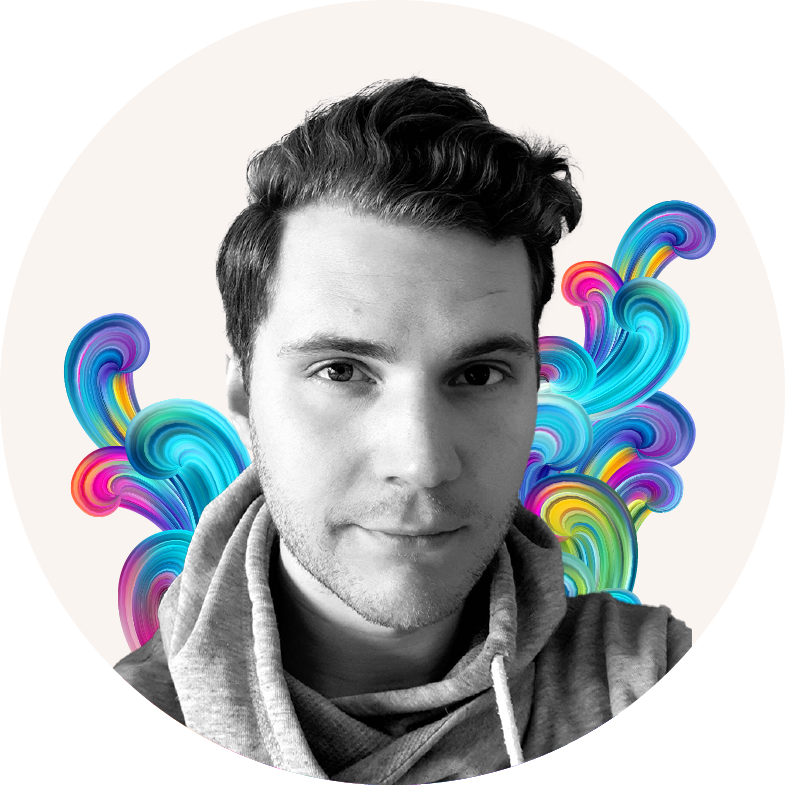
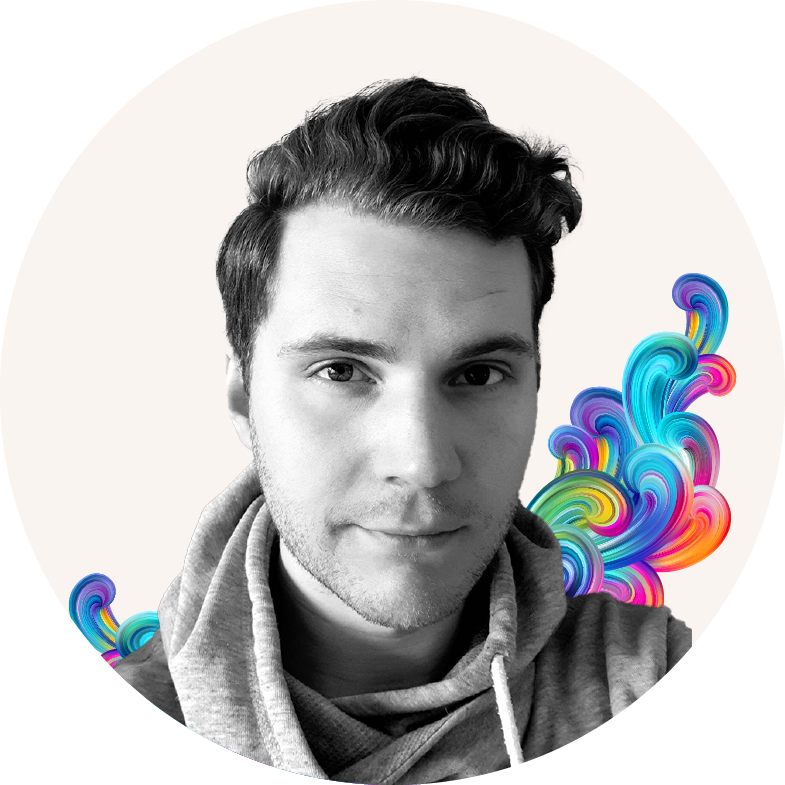
Add media queries

Changed region(s): [[0.642, 0.2446, 0.9478, 0.7949], [0.0611, 0.3975, 0.3363, 0.8561]]

diff --git a/src/views/WelcomePageViews/AboutPage.vue b/src/views/WelcomePageViews/AboutPage.vue
@@ -32,7 +32,7 @@
           <img class="image" :src="laptopRight"/>
         </div>      
         <div :class="!showLaptop ? 'art-text-container-hidden' : 'art-text-container-shown'">
-          <h1>Hobbyist artist</h1>
+          <h1>Hobby artist</h1>
           <p>As a teenager i had a brief period where i drawed comics. This led me on to try other medias and artforms, one of them being watercolor. 
             The years went and i rarely painted, until the day my wife handed me some paper and encouraged me to bring my old hobby back to life.</p>
         </div>
@@ -49,7 +49,7 @@
                   <ul>
                     <li>Coffee is my breakfast</li>
                     <li>Loves gaming</li>
-                    <li>I like keeping houseplants</li>
+                    <li>Like keeping houseplants</li>
                     <li>Spends to much time infront of screens</li>
                   </ul>
                 <p id="about-btn-text">More about me...</p>
@@ -101,6 +101,8 @@ export default {
       showMobile: false,
       aboutMeToggled: false,
       windowTop: window.top.scrollY,
+      windowHeight: window.innerHeight,
+      windowWidth: window.innerWidth,
     }
   },
 
@@ -149,26 +151,23 @@ export default {
     },
 
     onScroll() {
-      this.windowTop = window.top.scrollY
+      this.windowTop = window.top.scrollY;
+      this.windowHeight = window.innerHeight;
+      this.windowWidth = window.innerWidth;
     }
   },
 
   watch: {
     windowTop() {
-      if (this.windowTop > 500) {
+      if (this.windowTop > 500 || this.windowTop + this.windowHeight > 500 || this.windowWidth < 1100) {
         this.showScreen = true;
       }
-      else {this.showScreen = false}
-
-      if (this.windowTop > 1300) {
+      if (this.windowTop > 1300 || this.windowTop + this.windowHeight > 2700 || this.windowWidth < 1100) {
         this.showLaptop = true;
       }
-      else {this.showLaptop = false}
-
-      if (this.windowTop > 2200) {
+      if (this.windowTop > 2200 || this.windowTop + this.windowHeight > 3600 || this.windowWidth < 1100) {
         this.showMobile = true;
       }
-      else {this.showMobile = false}
     }
   },
 }
@@ -558,9 +557,6 @@ p {
   font-size: 40px;
 }
 
-.mobile-text-container-facts p {
-}
-
 .mobile-text-container-facts ul {
   margin-top: 25px;
   margin-bottom: 45px;
@@ -654,8 +650,86 @@ p {
   font-family: monospace;
 }
 
-@media only screen and (max-width: 1100px) { 
+/* Small screen CSS */
+@media only screen and (max-width: 1600px) {
+
+  h1 {
+    font-size: 33px;
+  }
+
+  p {
+    font-size: 14px;
+  }
+
+  .image {
+    height: 50%;
+    width: 50%;
+  }
+
+  #image-1 {
+    left: 45px;
+    height: 48%;
+  }
+
+  #image-2 {
+    left: 32%;
+    height: 69%;
+  }
+
+  #image-3 {
+    height: 40%;
+  }
   
+  .about-cards {
+    width: 100%;
+  }
+  
+  .about-card {
+    padding: 150px 0 200px 0;
+  }
+  
+  #screen-shown .mac-window-card[data-v-828a76b8] {
+    margin: -250px 0 0 600px;
+    height: 400px;
+  }
+
+  #screen-shown .mac-window-card .code-icon[data-v-828a76b8] {
+    margin: -50px 0 0 84%;
+  }
+
+  #screen-shown .mac-window-card h1 {
+    font-size: 33px;
+  }
+  
+  #screen-shown .mac-window-card p {
+    font-size: 14px;
+  }
+
+  #laptop-shown {
+    margin-right: -14%;
+  }
+
+  #laptop-shown .laptop-art-container {
+    max-width: 820px;
+    margin: -330px 0 0 -150px;
+  }
+
+  #mobile-shown .image {
+    height: 60%;
+    width: 60%;
+  }
+
+  .mobile-text-container-shown {
+    max-width: 700px;
+  }  
+  
+  .mobile-text-container-shown h1{
+    margin-top: 55px;
+  }
+}
+
+/* Mobile screen CSS  */
+@media only screen and (max-width: 1100px) { 
 }
   
 </style>

diff --git a/src/components/PageDivider.vue b/src/components/PageDivider.vue
@@ -30,10 +30,10 @@ export default {
           pageHeight = 0;
           break;
         case "PORTFOLIO":
-          pageHeight = 1000;
+          pageHeight = 700;
           break;      
         case "CONTACT":
-          pageHeight = 2000;
+          pageHeight = 3950;
           break;
         default:
           pageHeight = 0;
@@ -45,13 +45,13 @@ export default {
       let pageHeight = 0;
       switch(this.message) {
         case "ABOUT":
-          pageHeight = 2000;
+          pageHeight = 3950;
           break;
         case "PORTFOLIO":
-          pageHeight = 3000;
+          pageHeight = 4750;
           break;      
         case "CONTACT":
-          pageHeight = 4000;
+          pageHeight = 6000;
           break;
         default:
           pageHeight = 0;
@@ -92,7 +92,7 @@ export default {
 .divider-top-visible {
   border-top-right-radius: 100px;
   border-top-left-radius: 100px;
-  background-color: #000000;
+  background-color: #282828;
   width: 100%;
   height: 50%;
 }
@@ -107,12 +107,12 @@ export default {
 .divider-bottom-visible {
   border-bottom-right-radius: 100px;
   border-bottom-left-radius: 100px;
-  background-color: #000000;
+  background-color: #282828;
   width: 100%;
   height: 50%;
 }
 .divider-top-visible:hover {
-  background-color: #be9292;
+  background-color: #dbc6c6;
   transition: background-color .1s ease-in-out;
   cursor: pointer;
 }
@@ -150,7 +150,7 @@ p {
     border-radius: 100%;
     height: 100px;
     width: 100px;
-    background-color: #E0826F;
+    background-color: #dbc6c6;
 
 
     justify-content: space-around;

diff --git a/src/views/ContactViews/ContactPage.vue b/src/views/ContactViews/ContactPage.vue
@@ -162,7 +162,7 @@ textarea::-webkit-scrollbar-thumb {background-color:#babac0;border-radius:16px;b
 
 .email-form-container {
   position: relative;
-  margin: 350px 25% 50% 25%;
+  margin: 300px 25% 50% 25%;
   display: inline-flex;
   flex-direction: column;
   align-content: center;
@@ -198,6 +198,12 @@ textarea::-webkit-scrollbar-thumb {background-color:#babac0;border-radius:16px;b
   display: inline-flex;
   flex-direction: column;
   align-items: center;
+}
+
+@media only screen and (max-width: 1600px) {
+  .email-form-container {
+    margin: 220px 25% 50% 25%;
+  }
 }
 
 @media only screen and (max-width: 1100px) { 

diff --git a/src/views/WelcomePageViews/PortfolioPage.vue b/src/views/WelcomePageViews/PortfolioPage.vue
@@ -28,7 +28,7 @@ export default {
 
   methods: {
     onScroll() {
-      this.windowTop = window.top.scrollY
+      this.windowTop = window.top.scrollY;
     }
   },
 
@@ -48,7 +48,7 @@ export default {
 
 <style scoped>
 .main-content {
-  height: 700px;
+  height: 800px;
   width: 100%;
   display: flex;
   align-items: center;
